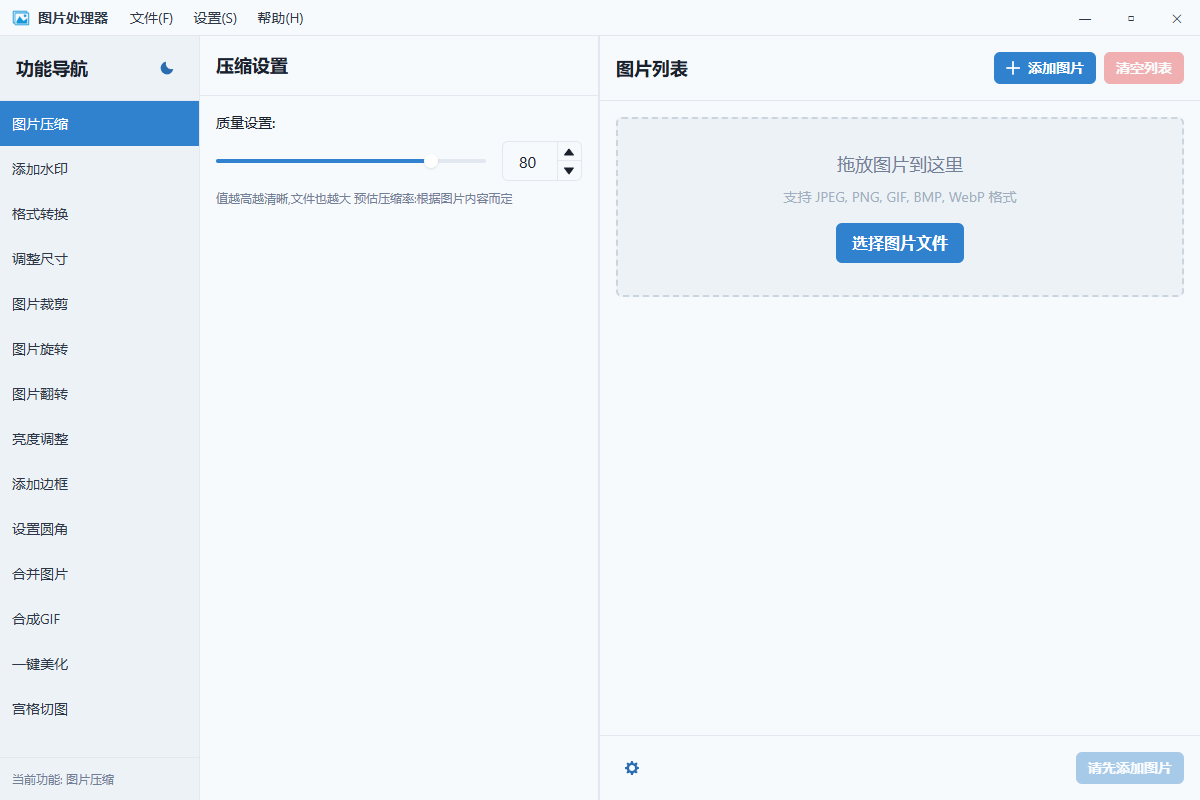
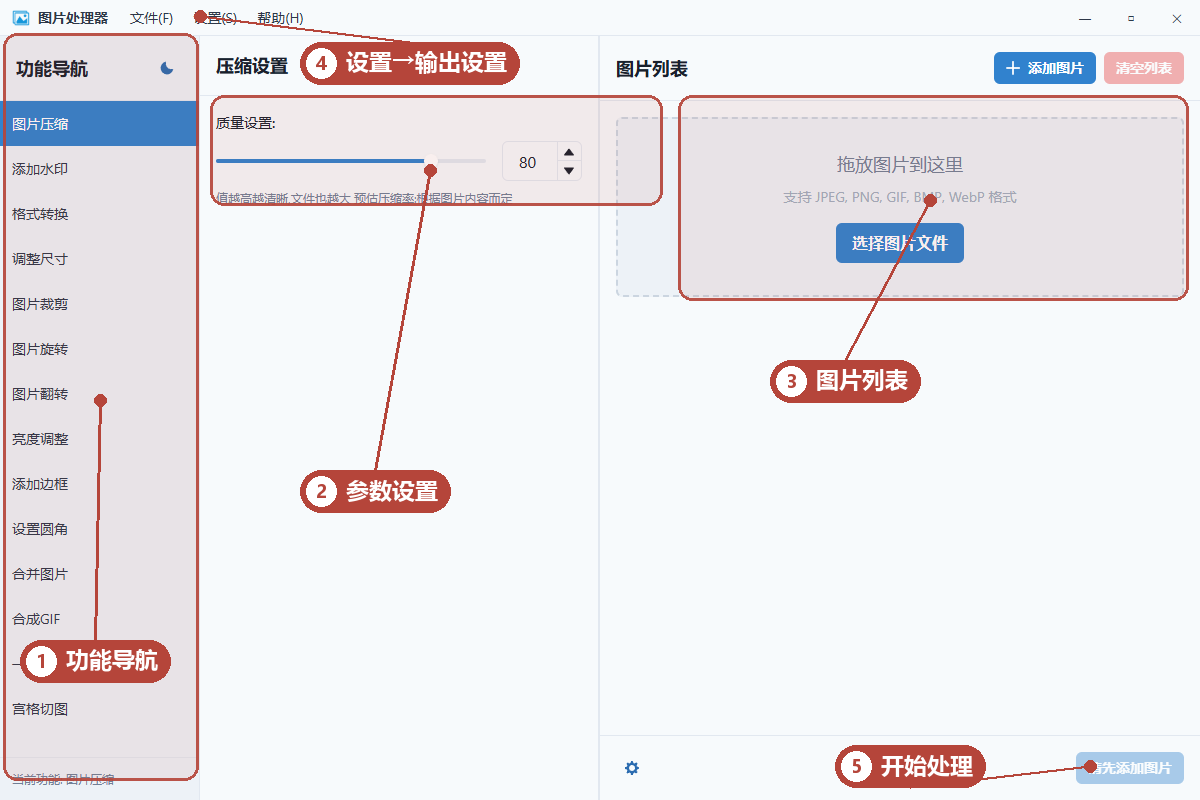
feat: 为两款工具教程补充真实界面截图与分步骤配图

diff --git a/src/data/apps.ts b/src/data/apps.ts
@@ -11,7 +11,7 @@
 export type KV = { k: string; v: string };
 export type Download = { label: string; os: "Windows" | "macOS"; note: string; url: string };
 export type Faq = { q: string; a: string };
-export type GuideStep = { n: number; title: string; body: string; tip?: string };
+export type GuideStep = { n: number; title: string; body: string; tip?: string; shot?: string; shotAlt?: string };
 
 export type App = {
   id: string;
@@ -114,8 +114,8 @@ export const apps: App[] = [
       lead: "从下载到处理好第一份文件，通常只要几分钟。下面按界面实际布局，带你走一遍通用流程。",
       steps: [
         { n: 1, title: "安装与启动", body: "下载便携版 zip 并解压到任意目录，双击 pdf-compress.exe 即可启动；macOS 打开 dmg 把应用拖入「应用程序」。便携版不写注册表，删除文件夹即卸载。", tip: "路径尽量用英文或中文，避免特殊符号；不要解压到需要管理员权限的系统目录。" },
-        { n: 2, title: "认识界面", body: "窗口左侧是功能导航（压缩、页面工具、格式转换、水印版式、安全隐私、脱敏涂黑等），右侧是当前功能的设置与文件列表。首页是全部工具的入口宫格。", tip: "左侧栏顶部可切换深色 / 浅色主题。" },
-        { n: 3, title: "进入功能并添加文件", body: "在左侧点选需要的功能，然后点「选择文件」或直接把 PDF 拖进窗口。支持一次添加多个文件批量处理。" },
+        { n: 2, title: "认识界面", body: "窗口左侧是功能导航（首页、压缩、扫描增强、页面工具、格式转换、水印版式、安全隐私、预览信息），右侧是当前功能的设置与文件列表。首页是全部工具的入口宫格。", tip: "左侧栏顶部可切换深色 / 浅色主题。", shot: "/assets/img/guide/pdf-nav.png", shotAlt: "左侧功能导航：首页、压缩、扫描增强、页面工具、格式转换等，顶部月亮图标可切换主题" },
+        { n: 3, title: "进入功能并添加文件", body: "在左侧点选需要的功能，然后点「选择文件」或直接把 PDF 拖进窗口。支持一次添加多个文件批量处理。", shot: "/assets/img/guide/pdf-tools.png", shotAlt: "首页「选择工具」宫格：压缩、页面工具、扫描增强、格式转换、水印版式、预览信息、安全隐私，点击卡片即可进入" },
         { n: 4, title: "确认输出并设置参数", body: "输出路径通常已自动填好（与源文件同目录）；按需要调整参数，例如压缩强度、页码范围、水印文字与字体。" },
         { n: 5, title: "开始处理并取回文件", body: "点击「开始处理」，完成后会弹出提示，可「打开文件位置」或「复制路径」。输出文件不会覆盖原件。", tip: "中文水印记得选微软雅黑、宋体等中文字体，避免显示成方块。" },
       ],
@@ -188,10 +188,10 @@ export const apps: App[] = [
       lead: "图片处理器采用「左功能、中参数、右列表」的三栏布局。先指定输出目录，再添加图片、选功能、调参数，最后批量处理。",
       steps: [
         { n: 1, title: "安装与启动", body: "下载便携版 zip 并解压，双击 image-processor.exe 启动；macOS 打开 dmg 将应用拖入「应用程序」。Tauri 2 已将运行资源内嵌，单个 exe 即可运行，无需额外资源文件夹。", tip: "建议解压到普通用户目录，避免需要管理员权限的位置。" },
-        { n: 2, title: "先设置输出目录", body: "首次使用，点顶部「设置 → 输出设置」，选择或输入图片保存路径（如 D:\\Pictures\\Output），保存。之后所有处理成果都会输出到这个目录。" },
-        { n: 3, title: "添加图片", body: "把图片直接拖到窗口右侧的图片列表，或点「选择图片文件」导入。支持一次添加多张，可在列表里拖拽排序。" },
-        { n: 4, title: "选择功能并调参数", body: "在左侧选功能（默认「图片压缩」），中间会显示对应参数。例如压缩时拖动质量滑块，一般设在 70–85 之间，兼顾体积与清晰度。" },
-        { n: 5, title: "开始处理并取回结果", body: "确认右侧图片列表无误后，点「开始处理」。完成后到输出目录取回图片；个别失败项会汇总提示，已成功的文件不受影响。" },
+        { n: 2, title: "先设置输出目录", body: "首次使用，点顶部「设置 → 输出设置」，选择或输入图片保存路径（如 D:\\Pictures\\Output），保存。之后所有处理成果都会输出到这个目录。", shot: "/assets/img/guide/img-menubar.png", shotAlt: "顶部菜单栏「文件 / 设置 / 帮助」，从「设置 → 输出设置」指定图片保存目录" },
+        { n: 3, title: "添加图片", body: "把图片直接拖到窗口右侧的图片列表，或点「选择图片文件」导入。支持一次添加多张，可在列表里拖拽排序。", shot: "/assets/img/guide/img-dropzone.png", shotAlt: "右侧「图片列表」的虚线拖放区与「选择图片文件」按钮，右上角可添加或清空列表" },
+        { n: 4, title: "选择功能并调参数", body: "在左侧选功能（默认「图片压缩」），中间会显示对应参数。例如压缩时拖动质量滑块，一般设在 70–85 之间，兼顾体积与清晰度。", shot: "/assets/img/guide/img-quality.png", shotAlt: "中间参数设置区，以「压缩设置」为例：拖动质量滑块，数值 70–85 兼顾体积与清晰度" },
+        { n: 5, title: "开始处理并取回结果", body: "确认右侧图片列表无误后，点「开始处理」。完成后到输出目录取回图片；个别失败项会汇总提示，已成功的文件不受影响。", shot: "/assets/img/guide/img-start.png", shotAlt: "右下角处理按钮：添加图片后由灰色「请先添加图片」变为可点击的「开始处理」" },
       ],
       naming: "输出文件名支持变量：{name} 原文件名（如 photo）、{timestamp} 时间戳（如 20261111133022）、{index} 序号（如 001）。可自由组合，例如 {name}_{index}。",
       notes: [

diff --git a/public/assets/css/style.css b/public/assets/css/style.css
@@ -516,6 +516,11 @@ button { font-family: inherit; cursor: pointer; }
 }
 .step-tip svg { width: 16px; height: 16px; flex: none; margin-top: 2px; color: var(--jade); }
 
+/* 步骤内配图（真实界面局部截图） */
+.step-shot { margin: 14px 0 0; border: 1px solid var(--line); border-radius: 10px; overflow: hidden; background: var(--paper-3); }
+.step-shot img { width: 100%; display: block; }
+.step-shot figcaption { font-size: 12.5px; color: var(--ink-400); padding: 8px 12px; background: var(--paper-2); border-top: 1px solid var(--line); line-height: 1.6; }
+
 /* 输出命名 */
 .naming-box {
   display: flex; gap: 15px; align-items: flex-start;

diff --git a/tools/make-guide-images.py b/tools/make-guide-images.py
@@ -1,0 +1,90 @@
+# -*- coding: utf-8 -*-
+"""用真实软件界面截图生成教程配图：带导览标注的主图 + 局部步骤图。"""
+from PIL import Image, ImageDraw, ImageFont
+import os
+
+SEAL = (181, 69, 58)      # 品牌印章红 #b5453a
+WHITE = (255, 255, 255)
+FB = r"C:\Windows\Fonts\msyhbd.ttc"
+FR = r"C:\Windows\Fonts\msyh.ttc"
+IMG_DIR = r"E:\Node\inkdot\public\assets\img"
+GUIDE_DIR = os.path.join(IMG_DIR, "guide")
+os.makedirs(GUIDE_DIR, exist_ok=True)
+
+
+def f(size, bold=False):
+    return ImageFont.truetype(FB if bold else FR, size)
+
+
+def badge(d, x, y, num, text, leader_to=None):
+    ft, fn = f(23, True), f(18, True)
+    cap_h, r, pad = 42, 17, 12
+    tw = d.textlength(text, font=ft)
+    cap_w = int(2 * r + pad * 2 + tw)
+    d.rounded_rectangle([x, y, x + cap_w, y + cap_h], radius=21, fill=SEAL)
+    cd = 30
+    cx, cy = x + 6, y + (cap_h - cd) / 2
+    d.ellipse([cx, cy, cx + cd, cy + cd], fill=WHITE)
+    ns = str(num)
+    bb = d.textbbox((0, 0), ns, font=fn)
+    nw, nh = bb[2] - bb[0], bb[3] - bb[1]
+    d.text((cx + (cd - nw) / 2 - bb[0], cy + (cd - nh) / 2 - bb[1]), ns, font=fn, fill=SEAL)
+    tl = d.textbbox((0, 0), text, font=ft)
+    th = tl[3] - tl[1]
+    d.text((x + 2 * r + pad, y + (cap_h - th) / 2 - tl[1]), text, font=ft, fill=WHITE)
+    if leader_to:
+        sx = x + cap_w / 2
+        sy = y + (0 if leader_to[1] < y + cap_h / 2 else cap_h)
+        d.line([sx, sy, leader_to[0], leader_to[1]], fill=SEAL, width=3)
+        d.ellipse([leader_to[0] - 6, leader_to[1] - 6,
+                   leader_to[0] + 6, leader_to[1] + 6], fill=SEAL)
+
+
+def annotated(src, dst, boxes, badges_list):
+    img = Image.open(src).convert("RGBA")
+    ov = Image.new("RGBA", img.size, (0, 0, 0, 0))
+    od = ImageDraw.Draw(ov)
+    for box in boxes:
+        od.rounded_rectangle(box, radius=14, fill=SEAL + (22,), outline=SEAL + (235,), width=3)
+    img = Image.alpha_composite(img, ov).convert("RGB")
+    d = ImageDraw.Draw(img)
+    for b in badges_list:
+        badge(d, b[0], b[1], b[2], b[3], leader_to=b[4] if len(b) > 4 else None)
+    img.save(dst, optimize=True)
+    print("OK", os.path.basename(dst), img.size)
+
+
+def crop_shot(src, dst, box, scale=2):
+    img = Image.open(src).convert("RGB")
+    c = img.crop(box)
+    if scale != 1:
+        c = c.resize((int(c.width * scale), int(c.height * scale)), Image.LANCZOS)
+    c.save(dst, optimize=True)
+    print("OK", os.path.basename(dst), c.size)
+
+
+PDF = r"E:\rustc\tools\pdf\ScreenShot_2026-06-11_213456_655.png"
+IMG = r"E:\rustc\tools\images\ScreenShot_2026-06-11_211809_169.png"
+
+# ---- 主图：真实界面 + 导览标注 ----
+annotated(PDF, os.path.join(IMG_DIR, "pdf-toolbox-guide.png"),
+          [(4, 34, 196, 852), (250, 100, 1220, 482)],
+          [(24, 600, 1, "功能导航", (100, 300)),
+           (560, 560, 2, "工具入口", (735, 470)),
+           (770, 60, 3, "切换深/浅色主题", (155, 65))])
+
+annotated(IMG, os.path.join(IMG_DIR, "image-processor-guide.png"),
+          [(3, 33, 198, 780), (210, 95, 662, 205), (678, 95, 1188, 300)],
+          [(20, 640, 1, "功能导航", (100, 400)),
+           (300, 470, 2, "参数设置", (430, 170)),
+           (770, 360, 3, "图片列表", (930, 200)),
+           (300, 42, 4, "设置→输出设置", (200, 16)),
+           (835, 745, 5, "开始处理", (1090, 766))])
+
+# ---- 局部步骤图（从真实截图裁切放大）----
+crop_shot(PDF, os.path.join(GUIDE_DIR, "pdf-nav.png"), (0, 28, 198, 700), 1.6)
+crop_shot(PDF, os.path.join(GUIDE_DIR, "pdf-tools.png"), (250, 95, 1225, 490), 1.3)
+crop_shot(IMG, os.path.join(GUIDE_DIR, "img-menubar.png"), (0, 0, 360, 120), 2)
+crop_shot(IMG, os.path.join(GUIDE_DIR, "img-dropzone.png"), (675, 33, 1200, 310), 1.4)
+crop_shot(IMG, os.path.join(GUIDE_DIR, "img-quality.png"), (200, 33, 668, 250), 1.6)
+crop_shot(IMG, os.path.join(GUIDE_DIR, "img-start.png"), (900, 710, 1200, 800), 2)
